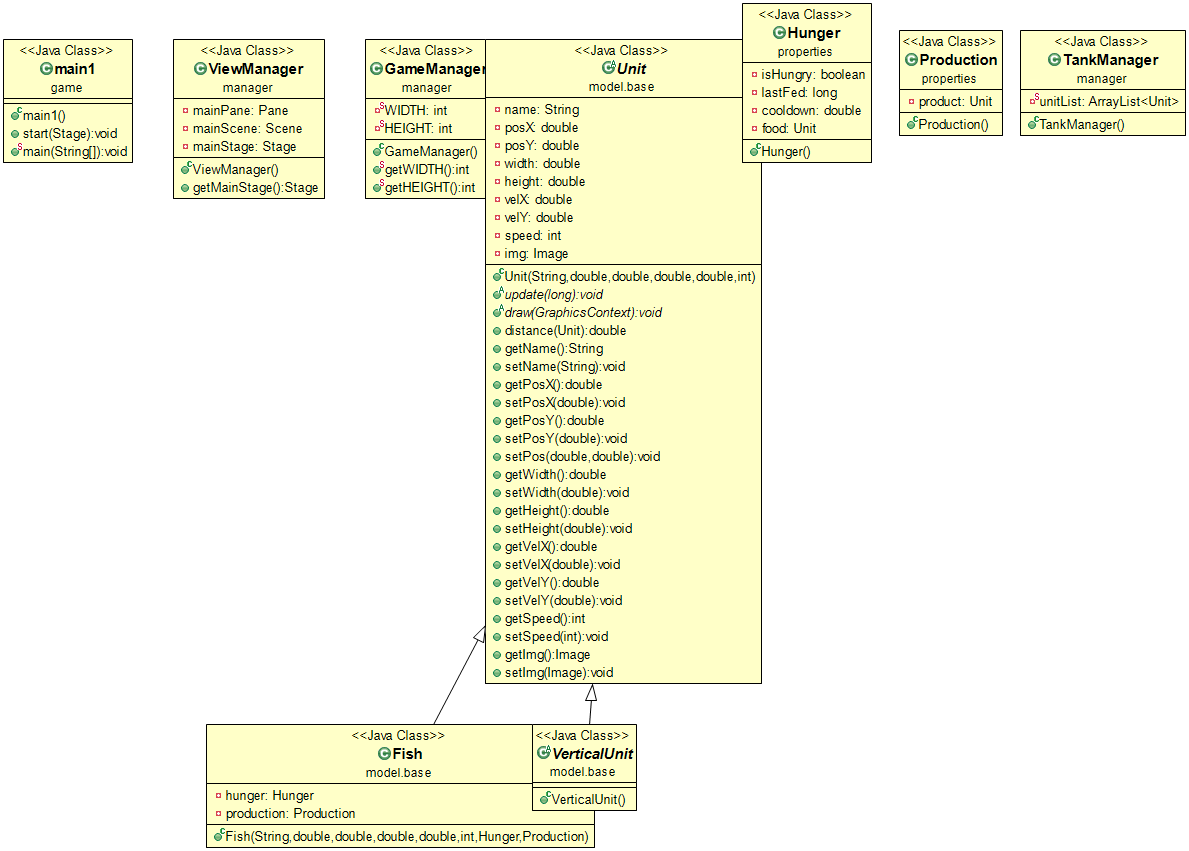
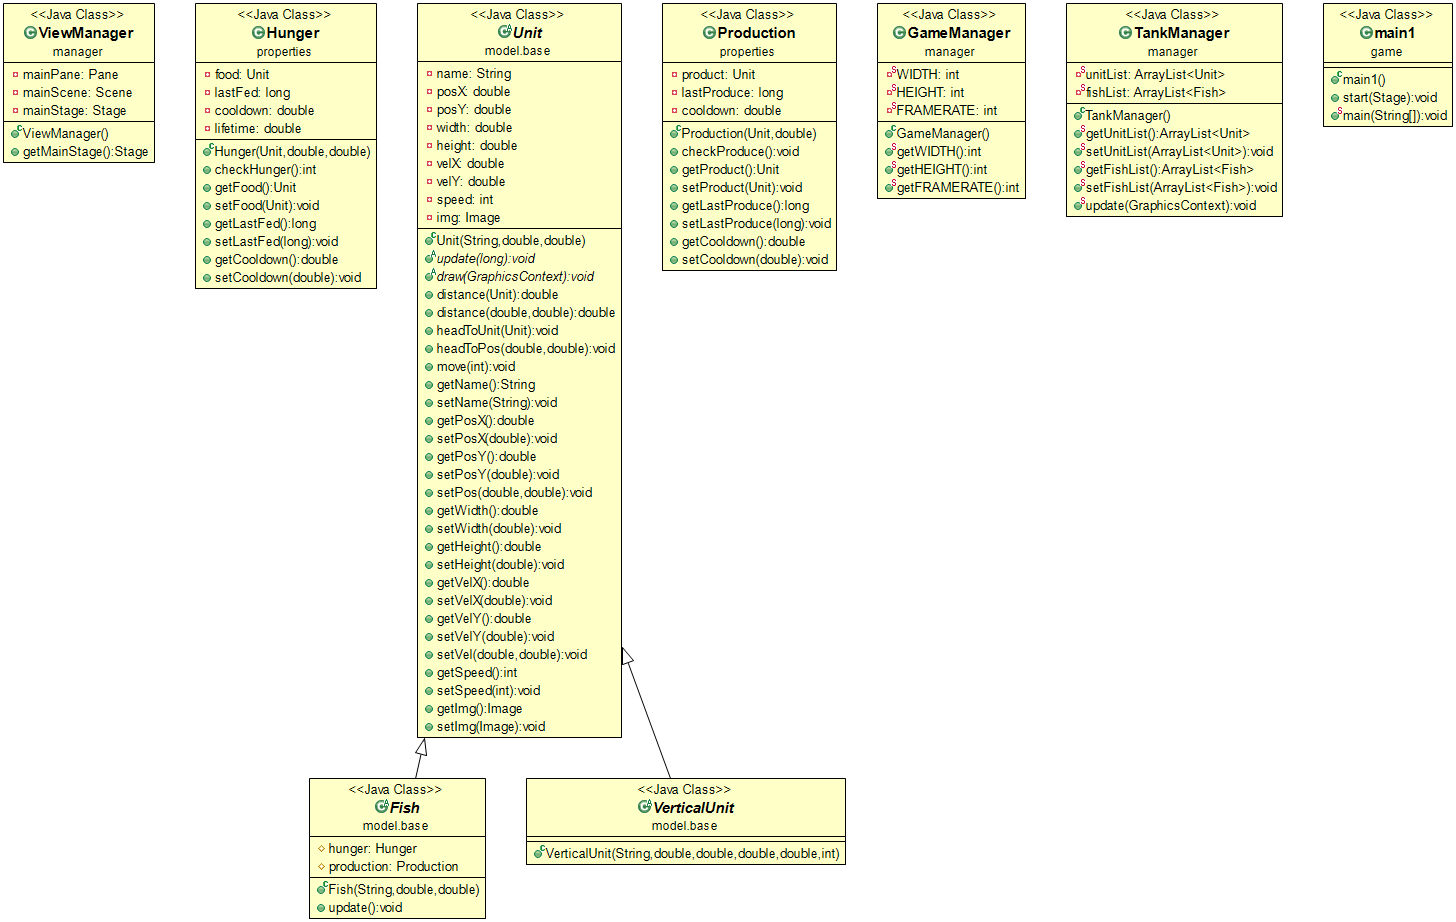
Test Guppy Fish

diff --git a/src/model/Guppy.java b/src/model/Guppy.java
@@ -1,6 +1,8 @@
 package model;
 
 import javafx.scene.canvas.GraphicsContext;
+import javafx.scene.image.Image;
+import manager.GameManager;
 import model.base.Fish;
 import properties.Hunger;
 import properties.Production;
@@ -12,30 +14,40 @@ public class Guppy extends Fish{
 	public Guppy(String name, double posX, double posY){
 		super(name, posX, posY);
 		// TODO Auto-generated constructor stub
-		this.setWidth(100);
-		this.setHeight(30);
+		
+
+		this.setWidth(90);
+		this.setHeight(60);
+		this.setVelX(10);
+		this.setVelY(10);
+		this.setImg(new Image("file:res/image/Guppy.png"));
 	}
 
 	@Override
 	public void update(long t) {
 		// TODO Auto-generated method stub
-		switch(hunger.checkHunger()) {
-		case 0:
-			//idle
-			break;
-		case 1:
-			//find food
-			break;
-		case 2:
-			//die
-			break;
-		}
+//		switch(hunger.checkHunger()) {
+//		case 0:
+//			//idle
+//			break;
+//		case 1:
+//			//find food
+//			break;
+//		case 2:
+//			//die
+//			break;
+//		}
+		
+		this.move(GameManager.getFRAMERATE());
+		
 	}
 
 	@Override
 	public void draw(GraphicsContext gc) {
 		// TODO Auto-generated method stub
+		System.out.println("Guppy" + System.nanoTime());
 		gc.drawImage(getImg(), getPosX(), getPosY(), getWidth(), getHeight());
+		
 	}
 
 	

diff --git a/src/manager/ViewManager.java b/src/manager/ViewManager.java
@@ -26,10 +26,13 @@ public class ViewManager {
 		mainPane.getChildren().add(canvas);
 		GraphicsContext gc = canvas.getGraphicsContext2D();
 		
+		
 		Guppy g1 = new Guppy("g1",500,300);
 		TankManager.getUnitList().add(g1);
 		TankManager.getFishList().add(g1);
 
+		
+		
 		Thread threadTank = new Thread(new Runnable() {
 
 			@Override
@@ -41,13 +44,13 @@ public class ViewManager {
 						gc.clearRect(0, 0, canvas.getWidth(), canvas.getHeight());
 						gc.setFill(Color.rgb(102, 204, 255));
 						gc.fillRect(0, 0, canvas.getWidth(), canvas.getHeight());
+						TankManager.update(gc);
 					}
 				};
 
 				while (true) {
 					try {
 						Thread.sleep(20);//50hz
-						TankManager.update();
 					} catch (InterruptedException ex) {
 					}
 

diff --git a/src/model/base/Unit.java b/src/model/base/Unit.java
@@ -49,6 +49,17 @@ public abstract class Unit {
 		this.setVelX((x - this.getPosX() / this.distance(x,y)*this.getSpeed()));
 		this.setVelY((y - this.getPosY() / this.distance(x,y)*this.getSpeed()));
 	}
+	
+	public void move(int fr) {
+		
+		double deltaTime = 1.0/fr;
+		System.out.println("move"+this.getPosX()+" "+this.getPosY()+" "+fr);
+		this.setPosX(this.getPosX() + this.getVelX()*deltaTime);
+		this.setPosY(this.getPosY() + this.getVelY()*deltaTime);
+	}
+	
+	
+	
 	//GETTER SETTER
 	public String getName() {
 		return name;
@@ -108,6 +119,11 @@ public abstract class Unit {
 	}
 
 	public void setVelY(double velY) {
+		this.velY = velY;
+	}
+	
+	public void setVel(double velX,double velY){
+		this.velX = velX;
 		this.velY = velY;
 	}
 

diff --git a/src/manager/TankManager.java b/src/manager/TankManager.java
@@ -7,11 +7,11 @@ import model.base.Fish;
 import model.base.Unit;
 
 public class TankManager {
-	private static GraphicsContext gc;
+
 	
-	private static ArrayList<Unit> unitList;
+	private static ArrayList<Unit> unitList = new ArrayList<Unit>();
 	
-	private static ArrayList<Fish> fishList;
+	private static ArrayList<Fish> fishList = new ArrayList<Fish>();
 
 	
 	
@@ -31,13 +31,15 @@ public class TankManager {
 		TankManager.fishList = fishList;
 	}
 
-	public static void update() {
+
+
+	public static void update(GraphicsContext gc) {
 		// TODO Auto-generated method stub
 		for(Unit u:unitList) {
 			u.draw(gc);
 		}
 		for(Fish f:fishList) {
-			f.update();
+			f.update(0);;
 		}
 	}
 	

diff --git a/src/manager/GameManager.java b/src/manager/GameManager.java
@@ -1,15 +1,18 @@
 package manager;
 
 public class GameManager {
-	private static int WIDTH = 640;
-	private static int HEIGHT = 480;
-	
+	private static int WIDTH = (int) (640*1.5);
+	private static int HEIGHT = (int) (480*1.5);
+	private static int FRAMERATE = 50;
 	
 	public static int getWIDTH() {
 		return WIDTH;
 	}
 	public static int getHEIGHT() {
 		return HEIGHT;
+	}
+	public static int getFRAMERATE() {
+		return FRAMERATE;
 	}
 	
 	

diff --git a/src/game/menu1.java b/src/game/menu1.java
@@ -54,7 +54,7 @@ public class menu1 extends Application {
 		Button button = new Button("Add");
 	    AnchorPane.setTopAnchor(button, 10.0);
 	    AnchorPane.setRightAnchor(button, 10.0);
-	    anchorPane.getChildren().addAll(list, button);
+//	    AnchorPane.getChildren().addAll(list, button);
 	}
 	
 	public static void main(String[] args) {
